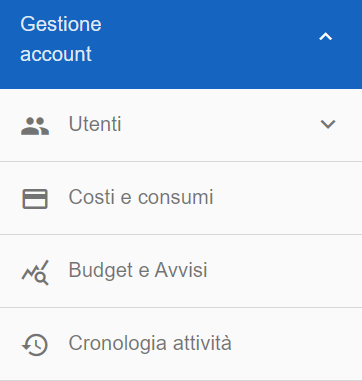
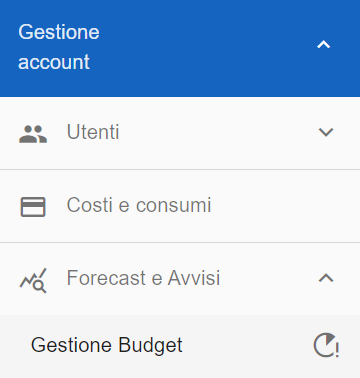
230609commit.1

diff --git a/docs/Come_fare_per/09_Forecasting.rst b/docs/Come_fare_per/09_Forecasting.rst
@@ -1,0 +1,54 @@
+.. _Forecasting:
+
+**Forescasting**
+================
+
+La funzione rientra nella sezione **Gestione Account**. La **creazione di un Budget** 
+è attivabile dalla parte sinistra dello schermo, cliccando sulla label **Forecasting**, sotto **Forecast e Avvisi**.
+
+.. image:: img/9_ForecastSx.png
+
+|
+
+La sezione del forecasting consente di simulare una previsione di andamento dei propri consumi in base ai costi già registrati 
+(funzionalità legata al ricalcolo dei costi).
+
+|
+
+A seguito di un click su **Forecasting**, il sistema popolerà la parte destra della pagina 
+web con il **Riepilogo** relativo a:
+
+• Costi rendicontati per il mese in corso
+• Costi previsti dal giorno corrente fino alla fine del mese in corso (considerando il costo medio giornaliero degli ultimi 30 giorni)
+• Costi rendicontati per l'anno in corso
+• Costi previsti dal giorno corrente fino alla fine dell'anno in corso (considerando il costo medio giornaliero degli ultimi 30 giorni)
+
+.. image:: img/9_RiepilogoDx.png
+
+|
+
+Sotto al riepilogo è possibile scegliere il campione, precedente alla data attuale, sul quale verrà basata la previsione:
+●	10 giorni
+●	30 giorni
+
+|
+
+L’altro parametro di selezione sarà il tipo di previsione:
+●	Valore medio dei costi nell’arco di tempo specificato
+●	Andamento dei costi nel tempo specificato (delta di crescita)
+
+|
+
+**Previsione legata a Valore medio dei costi nell’arco di tempo specificato**
+
+Cliccare nella combo box indicata dalla freccia per poter selezionare i valori **10 giorni** oppure **30 giorni**:
+
+.. image:: img/9_RiepilogoDx30gg.png
+
+
+
+
+
+
+
+

diff --git a/docs/Come_fare_per/8.1_Creare_Budget.rst b/docs/Come_fare_per/8.1_Creare_Budget.rst
@@ -4,7 +4,7 @@
 =================
 
 La funzione rientra nella sezione **Gestione Account**. La **creazione di un Budget** 
-è attivabile dalla parte sinistra dello schermo, cliccando sulla label **Budget e Avvisi**
+è attivabile dalla parte sinistra dello schermo, cliccando sulla label **Gestione Budget**, sotto **Forecast e Avvisi**.
 
 .. image:: img/8.1_BudgetAvvisiSX.png
 

diff --git a/docs/Come_fare_per/index_come_fare_per.rst b/docs/Come_fare_per/index_come_fare_per.rst
@@ -14,6 +14,7 @@ ad interagire con la piattaforma, attraverso il portale.
       05.1_Creare_Utente.rst
       05.2_Accreditare_Utente.rst
    08_Lavorare_Budget_Alert.rst
+   09_Forecasting.rst
    11.0_Lavorare_con_VM.rst
       11.1_Creare_VM.rst
       11.2_Gestire_VM.rst

diff --git a/docs/Notes/index_ReleaseNotes.rst b/docs/Notes/index_ReleaseNotes.rst
@@ -10,6 +10,8 @@ Service Portal 3.5.0 (2023-06-08)
 
 •  Integrazione Service Portal con funzionalità di Forecasting all'interno del budget
 
+•  Possibilità di allegati multipli in apertura ticket supporto
+
 •  Risoluzione bug fix minori
 
 
